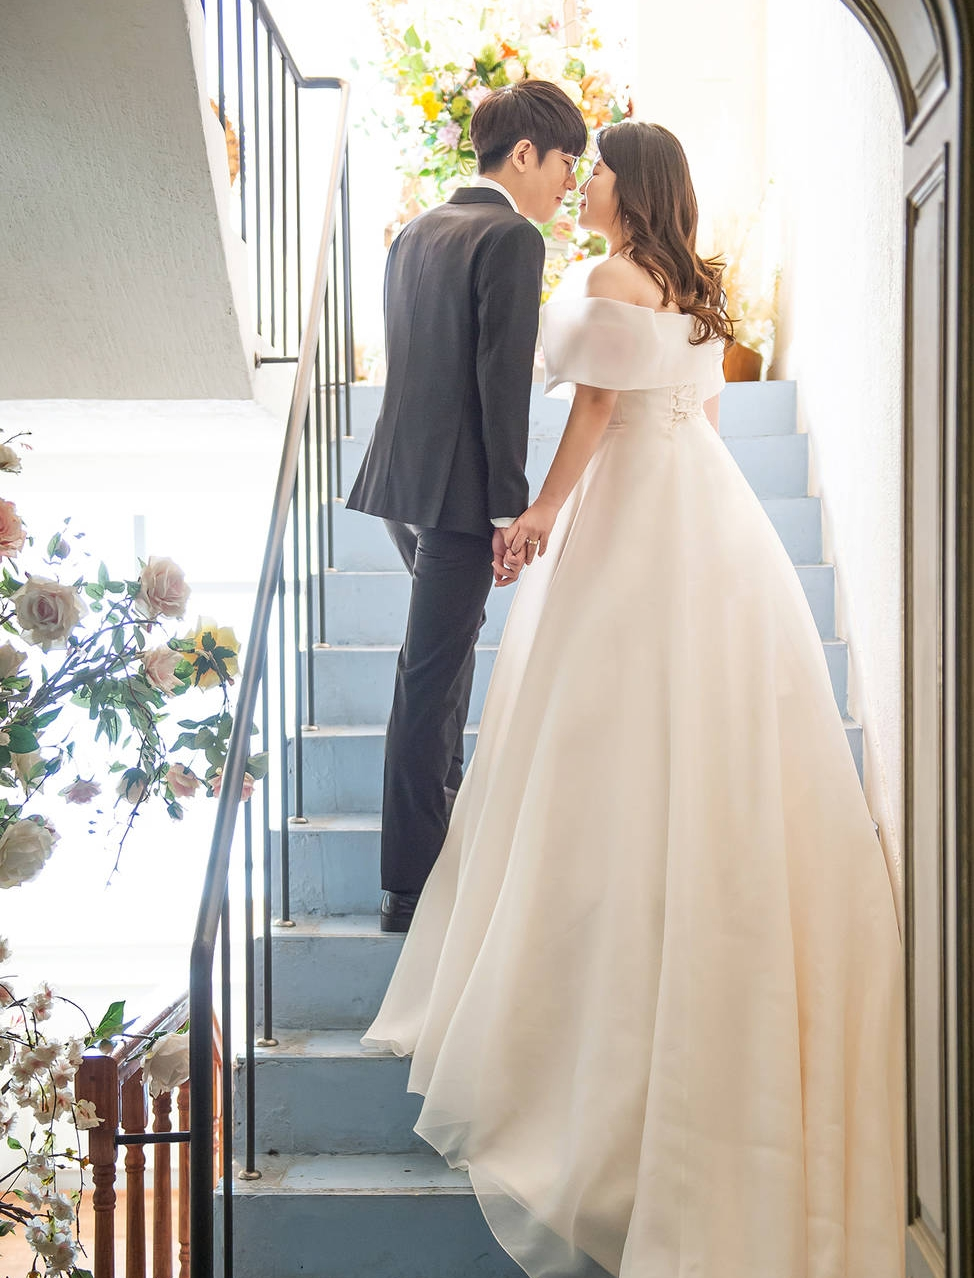
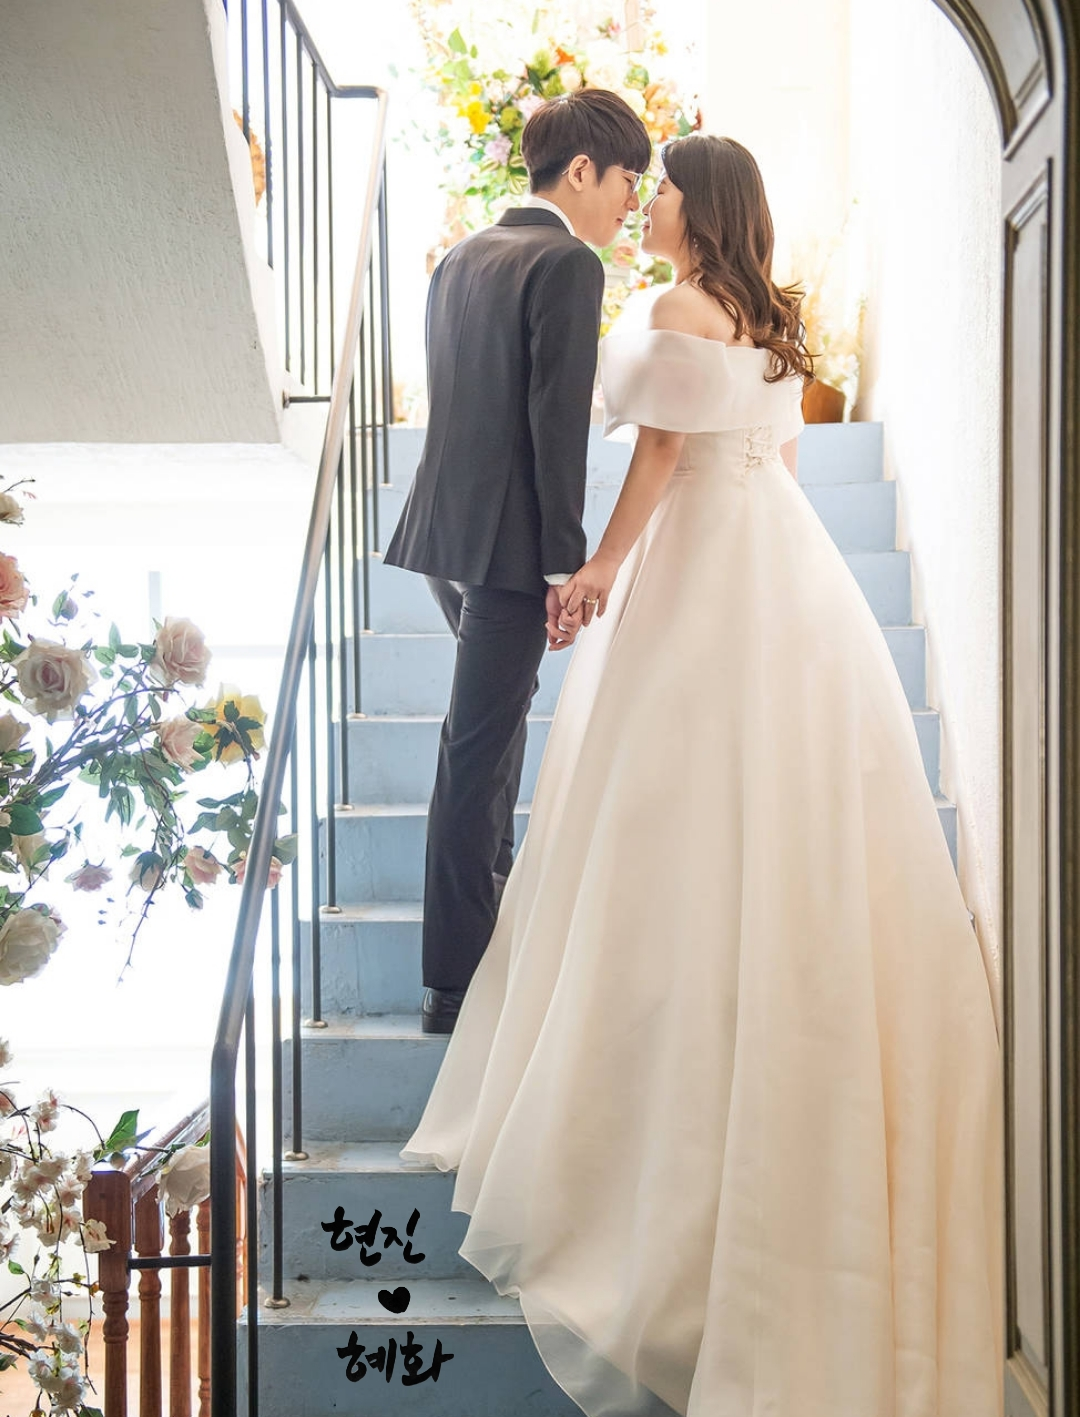
Update 캘리그라피 by 보미

diff --git a/components/WeddingGallery.vue b/components/WeddingGallery.vue
@@ -20,11 +20,11 @@ export default {
     return {
       images: [
         require('@/static/imgs/5.jpg'),
-        require('@/static/imgs/1.jpg'),
         require('@/static/imgs/3.jpg'),
         require('@/static/imgs/4.jpg'),
         require('@/static/imgs/7.jpg'),
         require('@/static/imgs/2.jpg'),
+        require('@/static/imgs/1.jpg'),
       ],
     }
   }

diff --git a/pages/index.vue b/pages/index.vue
@@ -268,7 +268,7 @@ body {
 }
 
 .ww-home-page {
-  background: url("@/static/imgs/2.jpg") no-repeat 70% 68%;
+  background: url("@/static/imgs/main.jpg") no-repeat 70% 68%;
   background-size: cover;
   height: 58vh;
   min-height: 480px;
